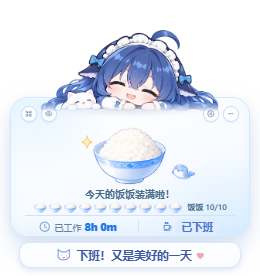
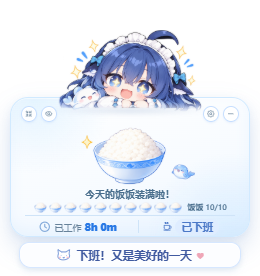
Use supplied blue whale portraits at collection stages five and ten

Changed region(s): [[0.1538, 0.087, 0.8615, 0.4058]]

diff --git a/src/components/ChibiGirl.tsx b/src/components/ChibiGirl.tsx
@@ -5,13 +5,17 @@ import girlHands from "../assets/chibi-girl-hands.png";
 import type { PetInteraction } from "../interaction/types";
 import { useDisplay } from "../display/DisplayProvider";
 import { useState, type CSSProperties } from "react";
+import { collectionCharacter } from "../collection/themes";
 
 export type GirlMood = "working" | "lunch" | "happy" | "rest";
 
 // Poses share a fixed box and are preloaded before each time boundary.
-export function ChibiGirl({ mood, width = 361, interaction, mini = false }: { mood: GirlMood; width?: number; interaction?: PetInteraction; mini?: boolean }) {
+export function ChibiGirl({ mood, width = 361, interaction, mini = false, stage }: { mood: GirlMood; width?: number; interaction?: PetInteraction; mini?: boolean; stage?: number }) {
   const { theme, assetError } = useTheme();
-  const { privacyMode } = useDisplay();
+  const { privacyMode, displayMode } = useDisplay();
+  const collectionSrc = displayMode === "collection" && privacyMode === "visible" &&
+    (mood === "working" || (mood === "happy" && stage === 10))
+    ? collectionCharacter(theme.id, stage) : undefined;
   const [decodedPrivacySources, setDecodedPrivacySources] = useState<ReadonlySet<string>>(() => new Set());
   const privacySrc = theme.privacy?.working;
   const active = interaction?.active;
@@ -26,9 +30,9 @@ export function ChibiGirl({ mood, width = 361, interaction, mini = false }: { mo
       style={{ width, "--privacy-tilt": theme.privacy?.tilt ?? "0.65deg" } as CSSProperties}
     >
       <div className="chibi-poses">
-        <img className="chibi-layer chibi-base chibi-awake" src={theme.characters.working} onError={assetError} alt="" draggable={false} />
+        <img className="chibi-layer chibi-base chibi-awake" src={mood === "working" && collectionSrc ? collectionSrc : theme.characters.working} onError={assetError} alt="" draggable={false} />
         <img className="chibi-layer chibi-base chibi-sleeping" src={theme.characters.lunch} onError={assetError} alt="" draggable={false} />
-        <img className="chibi-layer chibi-base chibi-after-work" src={theme.characters.finished} onError={assetError} alt="" draggable={false} />
+        <img className="chibi-layer chibi-base chibi-after-work" src={mood === "happy" && collectionSrc ? collectionSrc : theme.characters.finished} onError={assetError} alt="" draggable={false} />
         {/* Optional visual asset: decode in advance; failure keeps the original
             working pose and never resets the selected theme or privacy. */}
         {privacySrc && <img key={privacySrc} className="chibi-layer chibi-base chibi-privacy" src={privacySrc} onLoad={event => { void event.currentTarget.decode().then(() => setDecodedPrivacySources(previous => new Set(previous).add(privacySrc)), () => {}); }} onError={() => setDecodedPrivacySources(previous => { const next = new Set(previous); next.delete(privacySrc); return next; })} alt="" draggable={false} />}

diff --git a/src/components/InteractivePet.tsx b/src/components/InteractivePet.tsx
@@ -8,7 +8,7 @@ import { useDisplay } from "../display/DisplayProvider";
 
 type Gesture = { id: number; x: number; y: number; dragging: boolean };
 
-export function InteractivePet({ mood, width, interaction, mini = false, onDragEnd }: { mood: GirlMood; width?: number; interaction: PetInteraction; mini?: boolean; onDragEnd: () => void }) {
+export function InteractivePet({ mood, width, interaction, mini = false, onDragEnd, stage }: { mood: GirlMood; width?: number; interaction: PetInteraction; mini?: boolean; onDragEnd: () => void; stage?: number }) {
   const { theme } = useTheme();
   const gesture = useRef<Gesture | null>(null);
   const clearGesture = () => { gesture.current = null; };
@@ -34,7 +34,7 @@ export function InteractivePet({ mood, width, interaction, mini = false, onDragE
     if (Math.hypot(event.clientX - current.x, event.clientY - current.y) < 5) interaction.trigger();
   };
   const pet = <>
-    <ChibiGirl mood={mood} width={width} interaction={interaction} mini={mini} />
+    <ChibiGirl mood={mood} width={width} interaction={interaction} mini={mini} stage={stage} />
     {interaction.enabled && <button type="button" className="pet-hit-area" aria-label={`${theme.name}桌宠，点击互动`} onPointerDown={pointerDown} onPointerMove={pointerMove} onPointerUp={pointerUp} onPointerCancel={clearGesture} onLostPointerCapture={clearGesture} onBlur={clearGesture} onClick={event => { if (event.detail === 0) interaction.trigger(); }} />}
   </>;
   return <>

diff --git a/src/collection/themes.ts b/src/collection/themes.ts
@@ -1,4 +1,6 @@
 import { RICE_COPY, FISH_COPY, type CollectionCopy } from "./copy";
+import characterHalf from "../assets/themes/blue-whale-girl/collection/character-half.webp";
+import characterFull from "../assets/themes/blue-whale-girl/collection/character-full.webp";
 
 const assets = import.meta.glob<string>([
   "../assets/themes/*/collection/stage-*.webp", "../assets/themes/*/collection/rice-spoon.webp",
@@ -17,3 +19,9 @@ function config(id: string, kind: "rice" | "fish", title: string, copy: Collecti
 const blue = config("blue-whale-girl", "rice", "饭饭补给站", RICE_COPY);
 const mibao = config("mibao", "fish", "小鱼干储蓄罐", FISH_COPY);
 export function collectionTheme(id: string) { return id === "mibao" ? mibao : blue; }
+
+/** Only these two blue collection poses change; all other stages use base art. */
+export function collectionCharacter(id: string, stage?: number): string | undefined {
+  if (id !== "blue-whale-girl") return undefined;
+  return stage === 5 ? characterHalf : stage === 10 ? characterFull : undefined;
+}

diff --git a/src/components/MiniWidget.tsx b/src/components/MiniWidget.tsx
@@ -24,7 +24,7 @@ export function MiniWidget({ state, mood, moneyText, status, onDragEnd, interact
       <div className="mini-theme-detail" aria-hidden="true">{theme.decorations.cardAccent ? <img src={theme.decorations.cardAccent} alt="" draggable={false} /> : <><i /><i /><i /></>}</div>
       <div className="drag-overlay" data-tauri-drag-region onMouseUp={onDragEnd} />
     </div>
-    <div className="mini-pet"><InteractivePet mood={mood} width={164} interaction={interaction} mini onDragEnd={onDragEnd} /></div>
+    <div className="mini-pet"><InteractivePet mood={mood} width={164} interaction={interaction} mini onDragEnd={onDragEnd} stage={stage} /></div>
     <div className="mini-information">
       {collection ? <Collection stage={stage} state={state} mini pulse={deposit.pulse} onAnimationEnd={deposit.finish} interacting={!!interaction.active} /> : <><div className="mini-title">今天已经赚到</div>
       <div className={`mini-amount${hidden ? " masked-amount" : amountClass}`} aria-label={hidden ? "收入已隐藏" : undefined}>

diff --git a/src/components/Widget.tsx b/src/components/Widget.tsx
@@ -187,7 +187,7 @@ export function Widget() {
 
       {/* Q 版蓝发女孩：趴在卡片上沿 */}
       <div className="girl-wrap">
-        <InteractivePet mood={MOOD[state]} interaction={interaction} onDragEnd={handleDragEnd} />
+        <InteractivePet mood={MOOD[state]} interaction={interaction} onDragEnd={handleDragEnd} stage={stage} />
       </div>
       <PetBubble interaction={interaction} />
 

diff --git a/docs/ui/collection-characters-delivery.md b/docs/ui/collection-characters-delivery.md
@@ -1,0 +1,47 @@
+# 蓝色大肥鱼趣味积累两张角色图接入
+
+本次只增加蓝色大肥鱼可见趣味积累模式的两个角色图片映射。没有改动进度计算、积累容器、十格标识、投放动画、文案、样式或原生窗口代码。
+
+## 资源与来源
+
+| 用途 | 运行素材 | 原图 |
+|---|---|---|
+| 5/10 期待、流口水 | `src/assets/themes/blue-whale-girl/collection/character-half.webp` | `docs/fun-accumulation/蓝发鲸尾女仆中满.png`（用户第二张图） |
+| 10/10 星星眼、张嘴开心 | `src/assets/themes/blue-whale-girl/collection/character-full.webp` | `docs/fun-accumulation/蓝发鲸尾女仆（全满）.png`（用户第一张图） |
+
+已核对源文件与本轮附件 SHA-256 完全一致，均为 1448×1086 RGBA，Alpha 范围 0～255。源文件保持原样；运行图只裁掉透明边距、等比缩放并居中对齐到原角色的 1235×561 透明画布，输出无损 WebP。没有重绘或拉伸人物，也没有覆盖原上班、午休、下班素材。
+
+## 映射与优先级
+
+映射位于 `src/collection/themes.ts` 的 `collectionCharacter()`：
+
+```ts
+if (id !== "blue-whale-girl") return undefined;
+return stage === 5 ? characterHalf : stage === 10 ? characterFull : undefined;
+```
+
+此前角色没有半满区间映射，所以本次采用精确单点 5 和 10；4、6 及其他阶段继续使用原图。阶段文案既有的 4～6 区间保持原样，没有连带扩展角色区间。
+
+`Widget.tsx` 和 `MiniWidget.tsx` 仅将已计算的 stage 传给 `InteractivePet.tsx`，再传给 `ChibiGirl.tsx`。没有新增计时器或重新计算阶段，也没有重构组件。
+
+`ChibiGirl.tsx` 只在 `displayMode === "collection"`、`privacyMode === "visible"` 且角色为工作姿态时选择新图；趣味模式满格下班时，将新满格图放入原下班图片槽位。原下班状态判断、结算、文案和窗口行为完全不变。午休、休息日、上班前、隐私隐藏与实时金额模式继续使用原素材，咪宝永远不取得新映射。点击互动继续临时使用原互动素材，结束后恢复当前阶段的角色图。
+
+## 修改清单
+
+- 新增上述两张运行 WebP；保留并纳入本轮提交的两张用户 PNG 原图。
+- `src/collection/themes.ts`：两个图片导入与精确阶段映射。
+- `src/components/ChibiGirl.tsx`：在原图片槽位应用受展示方式、隐私及姿态约束的图片选择。
+- `src/components/InteractivePet.tsx`、`src/components/Widget.tsx`、`src/components/MiniWidget.tsx`：仅透传已有 stage。
+- `tools/verify-collection-characters.cjs`：真实 React 界面的阶段及原图优先级回归。
+- 本文及 `docs/ui/collection-characters/`：对应实际界面截图。
+
+## 检查
+
+前端 TypeScript 和生产构建通过。专项浏览器检查覆盖两个主题、正常/迷你模式，确认仅蓝色趣味模式 5/10 与 10/10 替换；0、3、4、6、7 保持原图。额外将午休调整到阶段 5 验证睡眠图优先，检查工作/午休/下班隐私、实时金额工作/下班、休息日、十格阶段同步及原窗口尺寸。
+
+Tauri Windows release EXE 和 NSIS 安装包构建通过。打包后 WebView2 验收通过，实际进程重启、隐私、午休与两主题业务状态正常；仅更新 `collection-desktop/blue-whale-girl-half.png`、`blue-whale-girl-full.png`、`blue-whale-girl-mini-half.png` 和 `blue-whale-girl-mini-full.png` 四张目标截图。原运行进程未被结束，退出托盘后重开即可加载新图。
+
+| 模式 | 5/10 | 10/10 |
+|---|---|---|
+| 正常 | ![](collection-characters/blue-whale-girl-full-stage-5.png) | ![](collection-characters/blue-whale-girl-full-stage-10.png) |
+| 迷你 | ![](collection-characters/blue-whale-girl-mini-stage-5.png) | ![](collection-characters/blue-whale-girl-mini-stage-10.png) |
